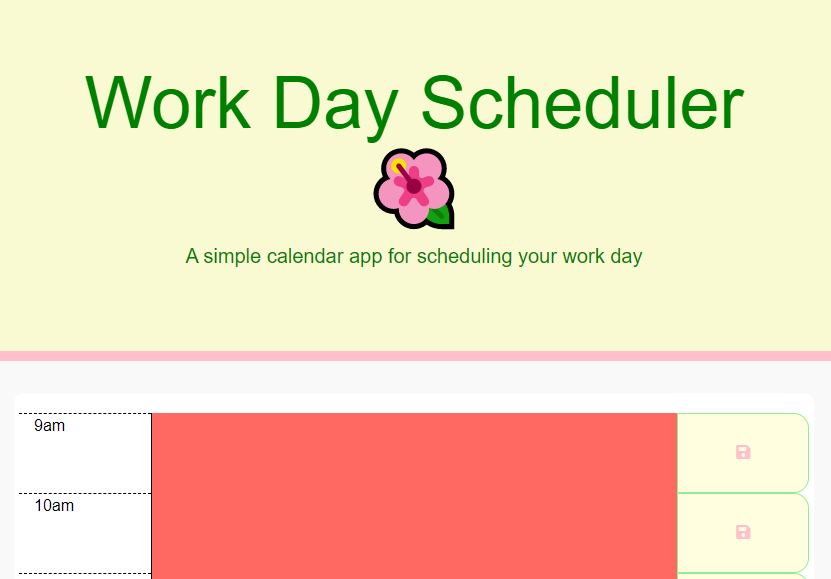
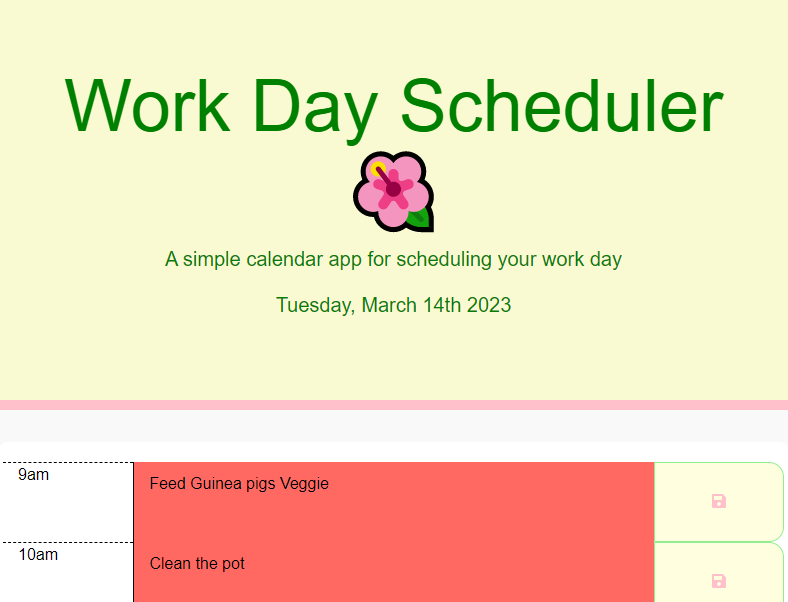
fixed the currentdate

diff --git a/assets/script.js b/assets/script.js
@@ -1,11 +1,10 @@
 // Get the current date and time using Moment.js
 var currentDate = moment().format('dddd, MMMM Do YYYY');
-var currentHour = 12 
-// moment().hour();
+var currentHour = moment().hour();
 console.log(currentHour)
 
 // Display the current date and time on the page
-$('#current-date').text(currentDate);
+$('#currentDay').text(currentDate);
 
 // Loop through each row in the calendar and set the background color based on the time
 $('textarea').each(function () {
